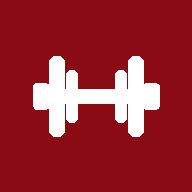
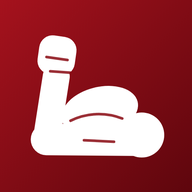
Nouvelle icône de l'application (bras qui contracte son biceps)
Claude-Session: https://claude.ai/code/session_01XFJy3XCYwYE4QbXV4LzxCr

diff --git a/sw.js b/sw.js
@@ -1,4 +1,4 @@
-const C = 'muscu-v1';
+const C = 'muscu-v2';
 const FILES = ['./', './index.html', './manifest.webmanifest', './icon-192.png', './icon-512.png', './apple-touch-icon.png'];
 self.addEventListener('install', e => { self.skipWaiting(); e.waitUntil(caches.open(C).then(c => c.addAll(FILES))); });
 self.addEventListener('activate', e => e.waitUntil(caches.keys().then(k => Promise.all(k.filter(x => x !== C).map(x => caches.delete(x)))).then(() => self.clients.claim())));
